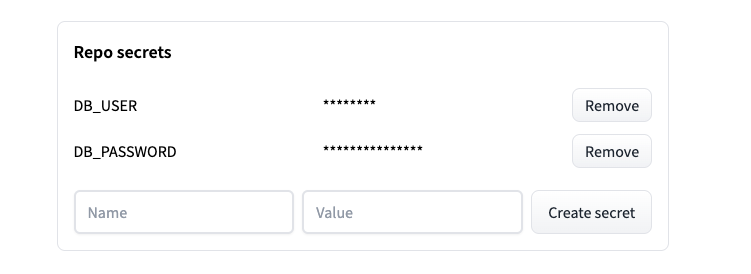
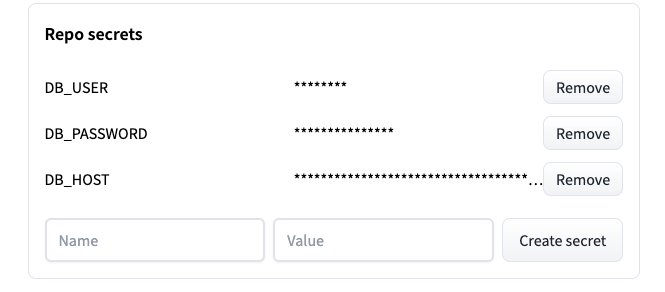
Rename

diff --git a/guides/5)other_tutorials/connecting_to_a_database.md b/guides/5)other_tutorials/connecting_to_a_database.md
@@ -1,6 +1,6 @@
 <script type="module" src="https://gradio.s3-us-west-2.amazonaws.com/3.1.0/gradio.js"></script>
 
-# Connecting to PostgreSQL
+# Connecting to a Database
 
 Related spaces: https://huggingface.co/spaces/freddyaboulton/chicago-bike-share-dashboard
 
@@ -13,7 +13,7 @@ to your data, you can display it in a web UI with gradio 💪
 
 ## Overview 
     
-We will be analyzing bike share data from Chicago. The data is hosted on kaggle [here](https://www.kaggle.com/datasets/evangower/cyclistic-bike-share?select=202203-divvy-tripdata.csv)
+We will be analyzing bike share data from Chicago. The data is hosted on kaggle [here](https://www.kaggle.com/datasets/evangower/cyclistic-bike-share?select=202203-divvy-tripdata.csv).
 Our goal is to create a dashboard that will enable our business stakeholders to answer the following questions:
 
 1. Are electric bikes more popular than regular bikes?
@@ -22,7 +22,7 @@ Our goal is to create a dashboard that will enable our business stakeholders to 
 
 ## Step 1 - Creating your database
 
-We will be storing our data on a PostgreSQL hosted on Amazon's RDS service. Create an AWS if you don't already have one
+We will be storing our data on a PostgreSQL hosted on Amazon's RDS service. Create an AWS account if you don't already have one
 and create a PostgreSQL database on the free tier. 
 
 **Important**: If you plan to host this demo on HuggingFace spaces, make sure database is on port **8080**. Spaces will
@@ -35,32 +35,32 @@ For the sake of this demo, we will only upload March 2022 data.
 ## Step 2.a - Connect to your database! 
 
 We will be using the `psycopg2` postgreSQL driver for python.
-This is not a hard requirement so you can use your preferred driver, like SQLAlchemy.
+This is not a hard requirement, so you can use your preferred driver, like SQLAlchemy.
 
 The first step is to create a connection to the database. With `psycopg2` you can do so like this:
 
 ```python
 connection = psycopg2.connect(user=os.environ["DB_USER"],
                               password=os.environ["DB_PASSWORD"],
-                              host="gradio-bikeshare.cbz6h4welhtp.us-east-1.rds.amazonaws.com",
+                              host=os.environ["DB_HOST"],
                               port="8080",
                               database="bikeshare")
 ```
 
-We will be passing the database username and password as environment variables.
+We will be passing the database username, password, and host as environment variables.
 This will make our app more secure by avoiding storing sensitive information as plain text in our application files.
 
 If you were to run our script locally, you could pass in your credentials as environment variables like so
 
 ```bash
-DB_USER=<username> DB_PASSWORD=<password> python app.py
+DB_USER='username' DB_PASSWORD='password' DB_HOST='host' python app.py
 ```
 
 ## Step 2.b - Write your ETL code
-We will be querying our database for the total count of rides split by the type of bicycle (electric, standard, or docked)
-as well as the total count of rides that depart from each station and take the top 5. 
+We will be querying our database for the total count of rides split by the type of bicycle (electric, standard, or docked).
+We will also query for the total count of rides that depart from each station and take the top 5. 
 
-We will then take the result of our query and visualize it in a matplotlib plot.
+We will then take the result of our queries and visualize them in with matplotlib.
 
 We can do this with the following code:
 
@@ -132,17 +132,17 @@ We will be deploying our app to HuggingFace spaces. If you wish, you could also 
 shareable link by passing the `share=True` parameter to `launch`.
 
 If you haven't used spaces before, follow the previous guide [here](/using_hugging_face_integrations).
-You will have to add the `DB_USER` and `DB_PASSWORD` variables as "Repo Secrets". You can do this in the "Settings" tab.
+You will have to add the `DB_USER`, `DB_PASSWORD`, and `DB_HOST` variables as "Repo Secrets". You can do this in the "Settings" tab.
 
 ![secrets](/assets/guides/secrets.png)
 
 ## Conclusion
 Congratulations! You know how to connect your gradio app to a database hosted on the cloud! ☁
 
-You can checkout the finished product below
+You can checkout the finished dasboard below:
 
 <gradio-app space="freddyaboulton/chicago-bike-share-dashboard"> </gradio-app>
 
-as well as [here](https://huggingface.co/spaces/freddyaboulton/chicago-bike-share-dashboard).
+as well as on [spaces](https://huggingface.co/spaces/freddyaboulton/chicago-bike-share-dashboard).
  
 As you can see, gradio gives you the power to connect to your data wherever it lives and display however you want! 🔥
